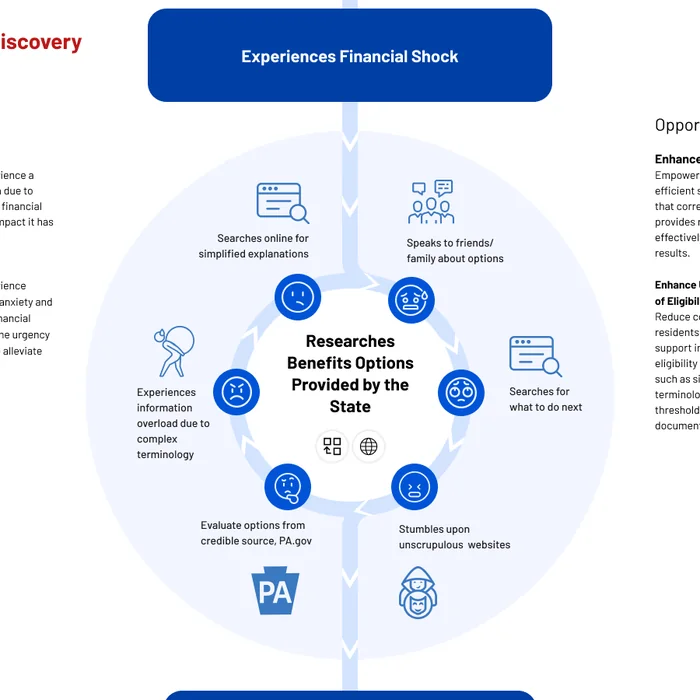
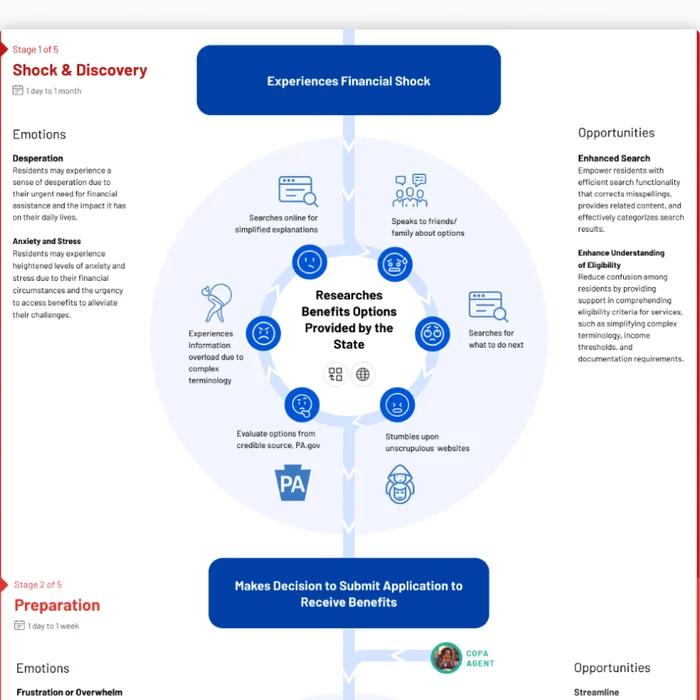
PA.gov: replace the journey slide with the overview-and-detail version
Claude-Session: https://claude.ai/code/session_01P9QZ9wtkJqyZXJU2jAnhQ7

diff --git a/index.html b/index.html
@@ -119,7 +119,7 @@ if(localStorage.getItem(k)){window.goatcounter={no_onload:true};var s=document.c
         <figure class="case-visual">
           <div class="carousel" aria-roledescription="carousel" aria-label="PA.gov research, structure, and screens">
             <div class="car-stage">
-              <div class="car-slide" data-title="Starting from the research" data-desc="We mapped the journeys of two kinds of benefits users. A first-time applicant often arrives after a financial shock, searches, and gets lost in complex terms and unreliable sites."><picture><source media="(max-width:640px)" srcset="assets/img/pa-0a-journey-m.webp"><img src="assets/img/pa-0a-journey.webp" width="1200" height="900" alt="Journey map, stage one of five: a first-time applicant experiences a financial shock and researches benefits, searching online, asking friends, and stumbling on unscrupulous websites. Emotions sit on the left and opportunities, led by enhanced search, on the right." loading="lazy" decoding="async"></picture></div>
+              <div class="car-slide" data-title="Starting from the research" data-desc="We mapped the journeys of two kinds of benefits users. A first-time applicant often arrives after a financial shock, searches, and gets lost in complex terms and unreliable sites."><picture><source media="(max-width:640px)" srcset="assets/img/pa-0a-journey-m.webp?v=2"><img src="assets/img/pa-0a-journey.webp?v=2" width="1200" height="900" alt="Journey map for a first-time applicant in distress: the full five-stage journey in miniature, beside a close-up of stage one, Shock and Discovery, where the resident searches online, asks friends, and stumbles on unscrupulous websites. Emotions sit on the left and opportunities, led by enhanced search, on the right." loading="lazy" decoding="async"></picture></div>
               <div class="car-slide fit" data-title="Services first, one template per agency" data-desc="A simplified site map. Services are the main way in, with content supplied by agencies, and every agency gets the same landing page with the same seven sections."><picture><source media="(max-width:640px)" srcset="assets/img/pa-0b-sitemap-m.webp"><img src="assets/img/pa-0b-sitemap.webp" width="2960" height="1876" alt="Conceptual site map in three columns: services first, with a service list, service finder, and service detail pages; an agency directory and a standard agency landing page with seven sections; and utilities and policies." loading="lazy" decoding="async"></picture></div>
               <div class="car-slide" data-title="Search that starts from the resident" data-desc="Life-event filters sit beside agency and service type. Someone who just lost a job sees services from every agency at once."><picture><source media="(max-width:640px)" srcset="assets/img/pa-1-search-m.webp"><img src="assets/img/pa-1-search.webp" width="1200" height="900" alt="PA.gov Find Services page with the life-event filters Finding a Job and Navigating Unemployment applied, showing 74 results from several agencies." loading="lazy" decoding="async"></picture></div>
               <div class="car-slide" data-title="Tags instead of folders" data-desc="Each service carries tags for its agency, topic, and life events, so one page shows up wherever a resident might look for it."><picture><source media="(max-width:640px)" srcset="assets/img/pa-2-tags-m.webp"><img src="assets/img/pa-2-tags.webp" width="910" height="682" alt="Search results on PA.gov, each tagged with its agency, topics, and life events such as Finding a Job and Adopting a Child." loading="lazy" decoding="async"></picture></div>
